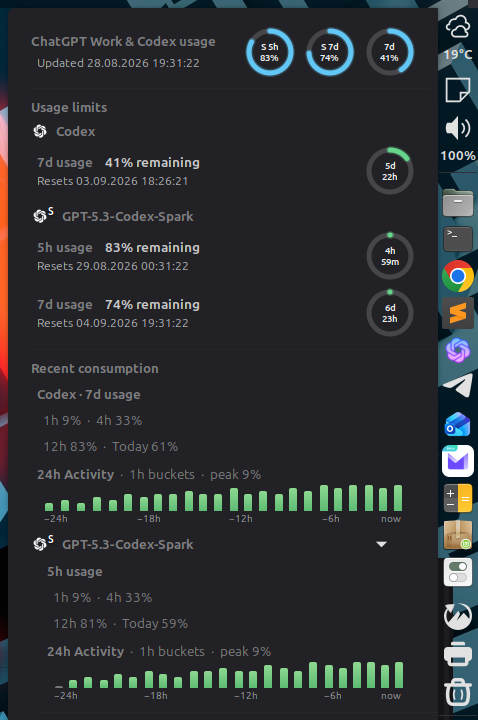
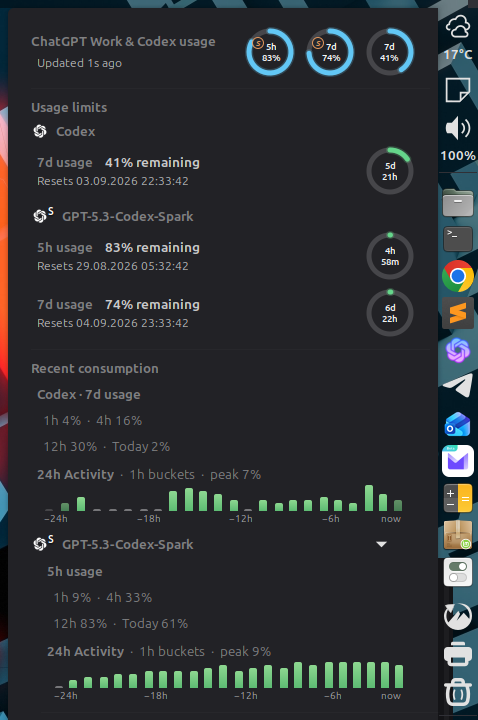
Keep untouched reset cycles at full duration

diff --git a/applet.js b/applet.js
@@ -545,12 +545,13 @@ class ChatGptUsageApplet extends Applet.Applet {
         });
         const area = new St.DrawingArea({ width: size, height: size });
         const model = UsageFormat.buildQuotaIndicator(window);
-        const badge = this._modelBadge(window);
+        const badgeText = this._modelBadge(window);
         const label = new St.Label({
-            text: `${badge ? `${badge} ` : ""}${model.durationLabel}\n${model.percentLabel}`,
+            text: `${model.durationLabel}\n${model.percentLabel}`,
             x_align: Clutter.ActorAlign.CENTER,
             y_align: Clutter.ActorAlign.CENTER
         });
+        label.translation_x = badgeText ? 2 : 0;
         label.clutter_text.set_line_alignment(Pango.Alignment.CENTER);
         label.style = [
             `font-size: ${size < QUOTA_RING_SIZE ? 60 : 72}%`,
@@ -568,6 +569,28 @@ class ChatGptUsageApplet extends Applet.Applet {
         });
         actor.add_child(area);
         actor.add_child(label);
+        if (badgeText) {
+            const badge = new St.Label({
+                text: badgeText,
+                x_expand: true,
+                y_expand: true,
+                x_align: Clutter.ActorAlign.START,
+                y_align: Clutter.ActorAlign.START
+            });
+            badge.style = [
+                `font-size: ${size < QUOTA_RING_SIZE ? 50 : 60}%`,
+                "font-weight: bold",
+                "font-style: italic",
+                "color: #f2a15f",
+                "background-color: #25272d",
+                "border: 1px solid rgba(242,161,95,0.92)",
+                "border-radius: 8px",
+                "padding: 0 3px"
+            ].join("; ") + ";";
+            badge.translation_x = size < QUOTA_RING_SIZE ? 6 : 8;
+            badge.translation_y = size < QUOTA_RING_SIZE ? 8 : 11;
+            actor.add_child(badge);
+        }
         this._quotaWidgets.push({ area, label, window });
         area.queue_repaint();
         return actor;

diff --git a/tests/test-usage-format.js b/tests/test-usage-format.js
@@ -139,6 +139,57 @@ assertClose(
     "Reset progress starts near empty and fills toward reset"
 );
 
+const unusedFiveHourCountdown = UsageFormat.buildResetCountdown(
+    {
+        durationMinutes: 300,
+        remainingPercent: 100,
+        resetsAt: 1000 + (5 * 3600)
+    },
+    1002
+);
+assertEqual(
+    unusedFiveHourCountdown.label,
+    "5h",
+    "Unused five-hour cycle keeps its full duration"
+);
+assertEqual(
+    unusedFiveHourCountdown.fractionElapsed,
+    0,
+    "Unused five-hour cycle has no reset progress"
+);
+
+const unusedWeeklyCountdown = UsageFormat.buildResetCountdown(
+    {
+        durationMinutes: 10080,
+        remainingPercent: 100,
+        resetsAt: 1000 + (7 * 86400)
+    },
+    1002
+);
+assertEqual(
+    unusedWeeklyCountdown.label,
+    "7d",
+    "Unused weekly cycle keeps its full duration"
+);
+assertEqual(
+    unusedWeeklyCountdown.fractionElapsed,
+    0,
+    "Unused weekly cycle has no reset progress"
+);
+
+assertEqual(
+    UsageFormat.buildResetCountdown(
+        {
+            durationMinutes: 300,
+            remainingPercent: 99.9,
+            resetsAt: 1000 + (5 * 3600)
+        },
+        1002
+    ).label,
+    "4h\n59m",
+    "Started cycle keeps counting down"
+);
+
 const weeklyCountdown = UsageFormat.buildResetCountdown(
     { durationMinutes: 10080, resetsAt: 1000 + (3 * 86400) + (4 * 3600) },
     1000

diff --git a/usage-format.js b/usage-format.js
@@ -127,19 +127,20 @@ function buildResetCountdown(window, nowSeconds = null) {
         };
     }
 
-    const remainingSeconds = clamp(
-        Math.ceil(resetsAt - currentSeconds),
-        0,
-        durationSeconds
-    );
+    const remainingPercent = Number(window && window.remainingPercent);
+    const remainingSeconds = Number.isFinite(remainingPercent) && remainingPercent >= 100
+        ? durationSeconds
+        : clamp(Math.ceil(resetsAt - currentSeconds), 0, durationSeconds);
     let primary = "now";
     let secondary = "";
     if (remainingSeconds >= 86400) {
         primary = `${Math.floor(remainingSeconds / 86400)}d`;
-        secondary = `${Math.floor((remainingSeconds % 86400) / 3600)}h`;
+        const remainingHours = Math.floor((remainingSeconds % 86400) / 3600);
+        secondary = remainingHours > 0 ? `${remainingHours}h` : "";
     } else if (remainingSeconds >= 3600) {
         primary = `${Math.floor(remainingSeconds / 3600)}h`;
-        secondary = `${Math.floor((remainingSeconds % 3600) / 60)}m`;
+        const remainingMinutes = Math.floor((remainingSeconds % 3600) / 60);
+        secondary = remainingMinutes > 0 ? `${remainingMinutes}m` : "";
     } else if (remainingSeconds >= 60) {
         primary = `${Math.floor(remainingSeconds / 60)}m`;
         secondary = `${remainingSeconds % 60}s`;

diff --git a/README.md b/README.md
@@ -46,9 +46,11 @@
   remaining usage, reset times, credits and earned resets.
 - Detects dedicated GPT-5.3-Codex-Spark 5h and 7d quotas automatically when
   they are enabled for the signed-in account; model-specific limits stay in
-  the popup by default and can optionally be added to the panel.
+  the popup by default, carry a distinct ring badge and can optionally be added
+  to the panel.
 - Shows paired circular available-quota and reset-countdown indicators for
-  every active 5h and 7d window without polling the API more often.
+  every active 5h and 7d window without polling the API more often. Untouched
+  100%-remaining cycles stay at their exact full duration until usage begins.
 - Tracks observed consumption for the last 1h, 4h, 12h and today per active
   quota, with a compact hourly 24-hour bar timeline and per-bucket hover
   details in the popup. Two-hour buckets remain selectable in settings, and
@@ -76,7 +78,7 @@ cd cinnamon-chatgpt-usage
 Then open **System Settings → Applets** and add **ChatGPT Usage** to a panel.
 Requirements: Cinnamon 5.8+, Python 3 and a current
 [Codex CLI](https://learn.chatgpt.com/docs/codex/cli#getting-started) signed in
-with ChatGPT. Version 0.2.3 is tested on Cinnamon 6.6.9 with Codex CLI 0.150.1.
+with ChatGPT. Version 0.2.4 is tested on Cinnamon 6.6.9 with Codex CLI 0.150.1.
 
 Run `./install.sh` again after updates. `./uninstall.sh` removes the applet while
 retaining its settings.

diff --git a/CHANGELOG.md b/CHANGELOG.md
@@ -1,5 +1,12 @@
 # Changelog
 
+## 0.2.4 — 2026-08-29
+
+- Keep untouched 100%-remaining reset cycles at their exact full `5h` or `7d`
+  label and empty progress ring until usage actually begins.
+- Separate model markers from quota values with a distinct amber ring badge,
+  making Spark's `S` unmistakable without reading it as part of `5h` or `7d`.
+
 ## 0.2.3 — 2026-08-28
 
 - Replace the popup header's full update timestamp with a concise live age,
